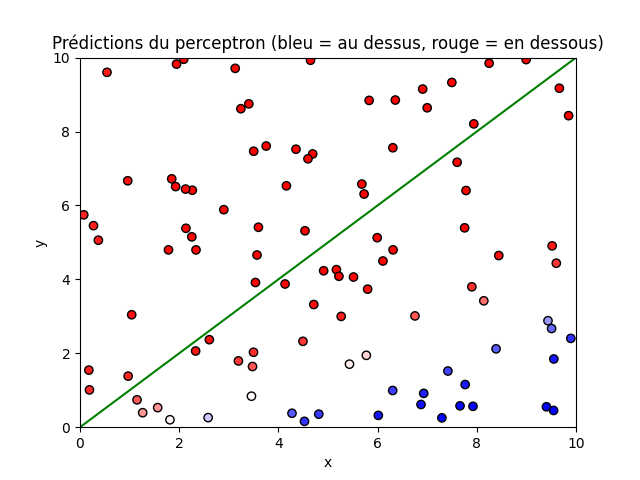
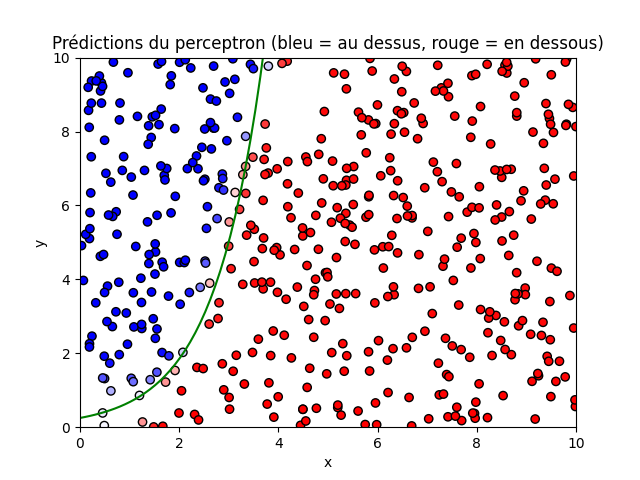
update

diff --git a/introduction/multi-layer-perceptron/mlp.py b/introduction/multi-layer-perceptron/mlp.py
@@ -4,12 +4,36 @@ from layer import Layer
 
 class MLP :
     def __init__(self, output_input_size = [2,3,1]) :
-        self.layers = []
-        for i in range(len(output_input_size) - 1) :
-            self.layers.append(Layer(output_input_size[i], output_input_size[i+1]))
-            print(self.layers[i].weights)
+        self.layers = [Layer(output_input_size[i], output_input_size[i + 1])
+                       for i in range(len(output_input_size) - 1)]
     
-    def forward(self, x): #on parcours les couches
-        for i in range(len(self.layers)) :
-            x = self.layers[i].forward(x) #on avance a la couche d apres
-        return x
+    def forward(self, output) : #on parcours les couches
+        for layer in self.layers :
+            output = layer.forward(output) # on avance a la couche d apres
+        return output
+    
+    def backward(self, d_input) :
+        for layer in reversed(self.layers) :
+            d_input = layer.backward(d_input)
+
+    def train(self, inputs, z_true, epochs) :
+        for epoch in range(epochs) :
+            for i in range(len(inputs)) :
+                z_pred = self.forward(inputs[i])
+                d_out = (z_pred - z_true[i])
+                self.backward(d_out)
+
+            if epoch % 10 == 0 or epoch == epochs - 1:
+                loss = self.binary_cross_entropy(z_true[i], z_pred)
+                print(f"Epoch {epoch+1}/{epochs} - Loss: {loss:.4f}")
+
+    def binary_cross_entropy(self, z_true, z_pred) : # Calculer la perte (coût) Pour un problème de classification binaire 
+        epsilon = 1e-8  # éviter log(0)
+        return -np.mean(z_true * np.log(z_pred + epsilon) + (1 - z_true) * np.log(1 - z_pred + epsilon))
+
+    def predict(self, inputs): #donne des valeurs entre 0 et 1
+        z_pred = self.forward(inputs)
+        return z_pred
+    
+    def predict_label(self, input): # donne soit 1 soit 0
+        return int(self.forward(input) > 0.5)

diff --git a/introduction/multi-layer-perceptron/main.py b/introduction/multi-layer-perceptron/main.py
@@ -5,12 +5,12 @@ from utils import generate_data, plot_classification, accuracy
 
 ############################### paramètres ###############################
 
-#constante de numérisation :
-Nt = 100 #nombre de prediction
-Nx = 100 #nombre d'entrée
+# constante de numérisation :
+Nt = 200 #nombre de prediction
+Nx = 500 #nombre d'entrée
 
-#constante du probleme
-g = lambda x: x  # frontière de séparation
+# constante du probleme
+g = lambda x: np.exp(x)/4  # frontière de séparation
 input_size = 2 # 2 car (x,y)
 hide_layer_size = 3
 output_size = 1
@@ -20,18 +20,18 @@ output_size = 1
 # creer notre reseau de neuronne simple (MLP)
 mlp = MLP([input_size, hide_layer_size, output_size])
 
-#initialisation des points aléatoires et du bon résultat a comparer avec nos prédictions 
+# initialisation des points aléatoires et du bon résultat a comparer avec nos prédictions 
 x, y, inputs, z_true = generate_data(Nx, g) # on veut regarder si le point (x,y) est au dessus de (x,g(x))
 
 # entraine notre perceptron
-'''mlp.train(inputs, z_true, Nt)'''
+mlp.train(inputs, z_true, Nt)
 
 # Prédictions finales
-z_pred = np.array([mlp.forward(inputs[i]) for i in range(Nx)]) #donne des valeurs entre 0 et 1
-"""z_pred_int = np.array([mlp.predict_label(inputs[i]) for i in range(Nx)]) #donne soit 1 soit 0"""
+z_pred = np.array([mlp.forward(inputs[i]) for i in range(Nx)]) # donne des valeurs entre 0 et 1
+z_pred_int =  np.array([mlp.predict_label(inputs[i]) for i in range(Nx)]) # donne soit 1 soit 0
 
-#precision de notre perceptron
-"""print(f"Précision : {accuracy(z_true, z_pred_int) * 100:.2f}%")"""
+# precision de notre perceptron
+print(f"Précision : {accuracy(z_true, z_pred_int) * 100:.2f}%")
 
 # Affichage des résultats finaux
 plot_classification(x, y, z_pred, g, title="Prédictions du perceptron (bleu = au dessus, rouge = en dessous)")

diff --git a/introduction/multi-layer-perceptron/layer.py b/introduction/multi-layer-perceptron/layer.py
@@ -10,8 +10,27 @@ class Layer :
     def sigmoid(self, x) : # Sigmoïde qui va de 0 a 1
         return 1/(1+ np.exp(-x))
     
-    def forward(self, inputs) :
-        self.last_input = inputs
+    def sigmoid_deriv(self, x): #dérivée de la fonction sigmoïde
+        sig = self.sigmoid(x)
+        return sig * (1 - sig)
+    
+    def forward(self, inputs) : # on calcul le resultat en sortie de couche
+        self.last_inputs = inputs
         self.z = np.dot(self.weights, inputs) + self.bias
-        self.a = self.sigmoid(self.z)  # ou relu(self.z)
-        return self.a
+        self.output = self.sigmoid(self.z) 
+        return self.output
+    
+    def backward(self, d_out) : # on revient en arrière pour modifier les poids et biais (d_out dérivée de la perte par rapport à la sortie de cette couche)
+        delta = d_out * self.sigmoid_deriv(self.z)  # élément par élément
+
+        # gradients des poids et biais
+        dW = np.outer(delta, self.last_inputs)  # produit extérieur si delta est (sortie,) et last_inputs est (entrée,)
+        db = np.sum(delta, axis=0)
+
+         # update les poids
+        self.weights -= self.lr * dW
+        self.bias -= self.lr * db
+
+        # gradient à propager à la couche précédente
+        d_input = np.dot(self.weights.T, delta)
+        return d_input

diff --git a/introduction/README.md b/introduction/README.md
@@ -58,8 +58,7 @@ L'objectif est de construire et d'entraîner un **réseau de neurones simple** p
 1. Cloner ce repository :
    ```bash
    git clone https://github.com/theohuetqc/neural-network.git
-   cd neural-network
-   cd introduction
+   cd neural-network/introduction
    ```
 2. Installer les dépendances :
    ```bash

diff --git a/README.md b/README.md
@@ -58,7 +58,7 @@ Une fois les bases posées, nous pourrons aller plus loin avec des architectures
 ```
 📂 neural-network/
 │
-│   📂 introduction/
+├── 📂 introduction/
 │   │
 │   ├── 📂 perceptron/
 │   │   ├── perceptron.py         ← Classe Perceptron
